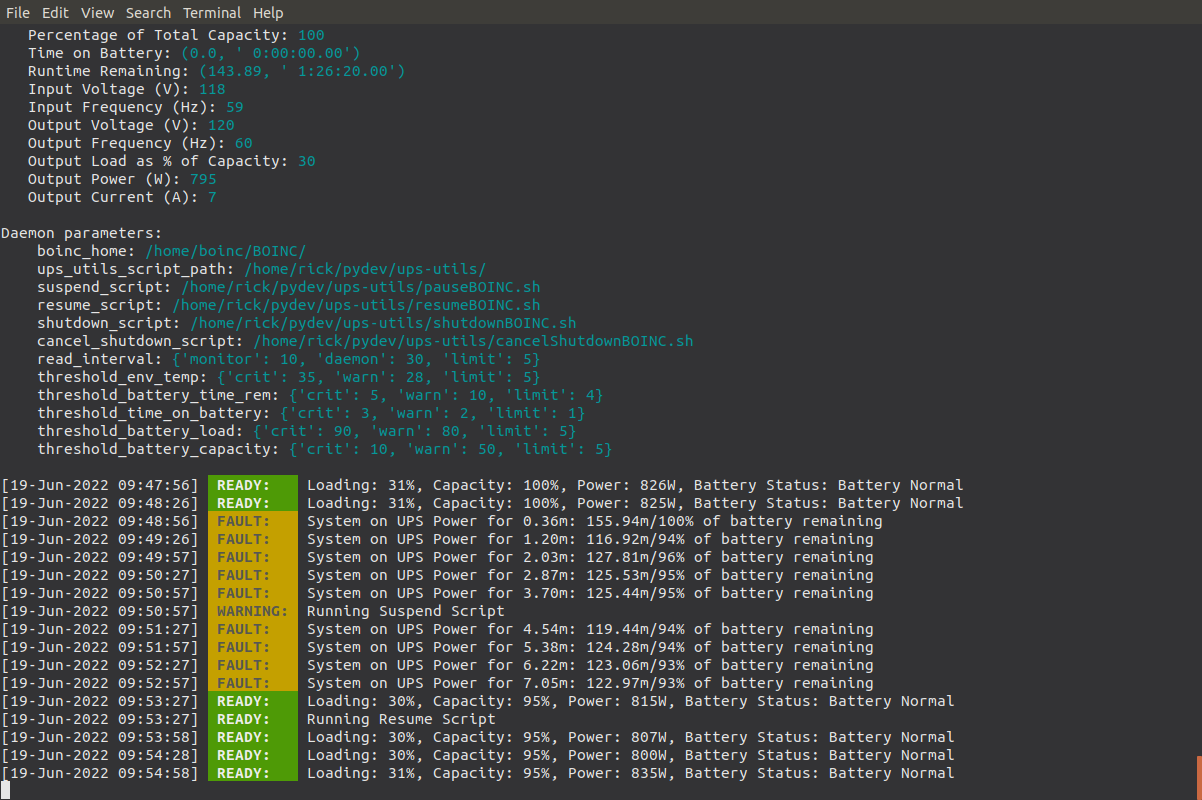
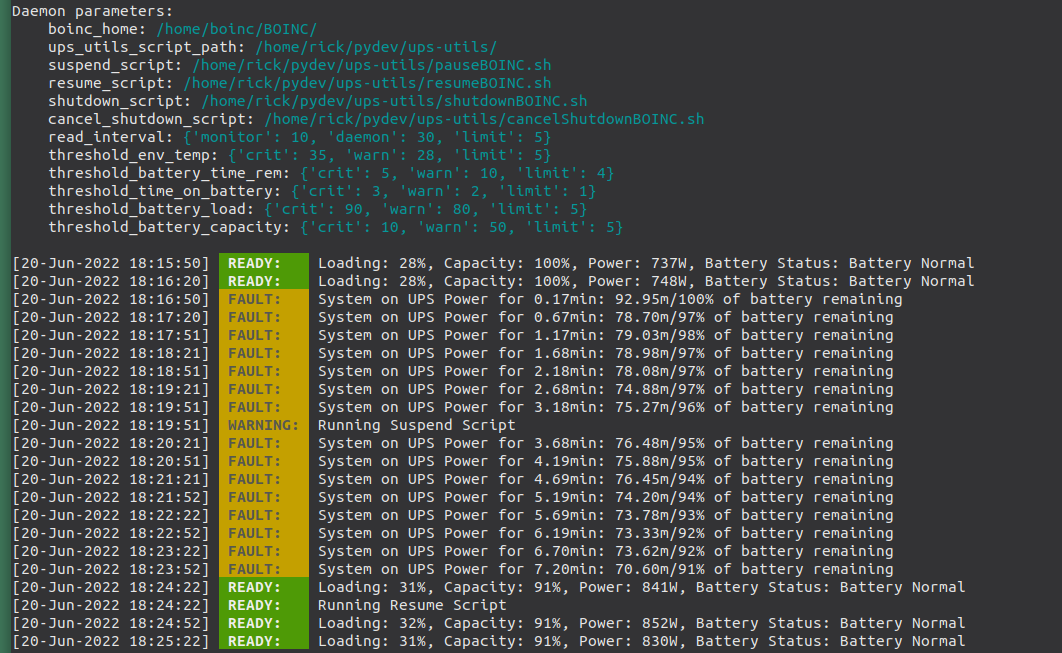
fixed issue with time on bat calc, formatting

Changed region(s): [[0.0, 0.0, 0.9322, 1.0], [0.9944, 0.9188, 1.0, 1.0], [0.5593, 0.245, 0.5904, 0.2757]]

diff --git a/UPSmodules/UPSmodule.py b/UPSmodules/UPSmodule.py
@@ -33,7 +33,6 @@ import re
 import shlex
 import shutil
 import time
-import datetime
 import json
 import subprocess
 import logging
@@ -120,8 +119,8 @@ class UpsItem:
         'mib_ups_env_temp': 'UPS Environment Temp (C)',
         'sep4':                '#',
         'mib_battery_capacity': 'Percentage of Total Capacity',
-        'mib_time_on_battery': 'Time on Battery',
-        'mib_battery_runtime_remain': 'Runtime Remaining',
+        'mib_time_on_battery': 'Time on Battery (min)',
+        'mib_battery_runtime_remain': 'Runtime Remaining (min)',
         'sep5':                '#',
         'mib_input_voltage': 'Input Voltage (V)',
         'mib_input_frequency': 'Input Frequency (Hz)',
@@ -141,7 +140,7 @@ class UpsItem:
     _short_list: Set[str] = {'ups_IP', 'display_name', 'mib_ups_model', 'responsive', 'daemon'}
     table_list: Set[str] = {'display_name', 'ups_IP', 'ups_type', 'mib_ups_model', 'ups_nmc_model', 'daemon'}
     mark_up_codes = env.UT_CONST.mark_up_codes
-    TXT_style: UpsEnum = UpsEnum('style', 'warn crit green bold normal')
+    TXT_style: UpsEnum = UpsEnum('style', 'warn crit green bold normal daemon')
 
     def __init__(self, json_details: dict):
         # UPS list from ups-config.json for monitor and ls utils.
@@ -352,12 +351,13 @@ class UpsDaemon:
         'ups_utils_script_path': os.path.expanduser('~/.local/bin/'),
         'read_interval': {'monitor': 10, 'daemon': 30, 'limit': 5},
         'threshold_env_temp': {'crit': 35, 'warn': 30, 'limit': 5},
-        'threshold_battery_time_rem': {'crit': 5, 'warn': 10, 'limit': 4},
-        'threshold_time_on_battery': {'crit': 5, 'warn': 3, 'limit': 1},
         'threshold_battery_load': {'crit': 90, 'warn': 80, 'limit': 5},
+        'threshold_time_on_battery': {'crit': 5, 'warn': 3, 'limit': 1},
+        'threshold_battery_time_rem': {'crit': 5, 'warn': 10, 'limit': 4},
         'threshold_battery_capacity': {'crit': 10, 'warn': 50, 'limit': 5}}
     daemon_param_dict: Dict[str, str] = {
         'mib_ups_env_temp': 'threshold_env_temp',
+        'mib_time_on_battery': 'threshold_time_on_battery',
         'mib_battery_runtime_remain': 'threshold_battery_time_rem',
         'mib_output_load': 'threshold_battery_load',
         'mib_battery_capacity': 'threshold_battery_capacity'}
@@ -395,30 +395,27 @@ class UpsDaemon:
         :return:
         """
         if command_name not in self.daemon_param_dict:
-            return UpsItem.TXT_style.normal if gui_text_style else 'none'
-        if not value:
+            return UpsItem.TXT_style.bold if gui_text_style else 'none'
+        if value in {None, 'none', '', '---'}:
             return UpsItem.TXT_style.normal if gui_text_style else 'none'
         if isinstance(value, str):
             if value.isnumeric():
                 value = int(value)
             else:
-                return UpsItem.TXT_style.normal if gui_text_style else 'none'
+                return UpsItem.TXT_style.bold if gui_text_style else 'none'
 
         limits = self.daemon_params[self.daemon_param_dict[command_name]]
-        if command_name in ['mib_ups_env_temp', 'mib_output_load']:
-            # if value >= limits['limit']: return 'limit'
+        if command_name in {'mib_ups_env_temp', 'mib_output_load', 'mib_time_on_battery'}:
             if value >= limits['crit']:
                 return UpsItem.TXT_style.crit if gui_text_style else 'crit'
             elif value >= limits['warn']:
                 return UpsItem.TXT_style.warn if gui_text_style else 'warn'
         else:
-            if command_name == 'mib_battery_runtime_remain': value = value[0]
-            # if value <= limits['limit']: return 'limit'
             if value <= limits['crit']:
                 return UpsItem.TXT_style.crit if gui_text_style else 'crit'
             elif value <= limits['warn']:
                 return UpsItem.TXT_style.warn if gui_text_style else 'warn'
-        return UpsItem.TXT_style.normal if gui_text_style else 'none'
+        return UpsItem.TXT_style.bold if gui_text_style else 'none'
 
     def read_daemon_config(self) -> bool:
         """ Read the daemon config file.
@@ -1161,7 +1158,7 @@ class UpsComm:
         for cmd in UpsComm.all_mib_cmd_names[cmd_group]:
             if cmd in ups.skip_list: continue
             ups.prm[cmd] = self.send_snmp_command(cmd, ups, display=display)
-            if not ups.prm[cmd]:
+            if ups.prm[cmd] in {None, '', 'none'}:
                 ups.skip_list.append(cmd)
                 ups.prm[cmd] = '---'
                 env.UT_CONST.process_message('UPS {} invalid response: Skipping: {}'.format(
@@ -1185,7 +1182,7 @@ class UpsComm:
         return True
 
     def send_snmp_command(self, command_name: str, ups: UpsItem,
-                          display: bool = False) -> Union[str, int, List[Union[float, str]], float, None]:
+                          display: bool = False) -> Union[str, int, float, None]:
         """ Read the specified mib commands results for specified UPS or active UPS if not specified.
 
         :param command_name:  A command to be read from the target UPS
@@ -1209,12 +1206,12 @@ class UpsComm:
                          command_name, cmd_mib, ups.prm.display_name, ups.ups_ip())
             return None
 
-        value = ''
-        value_minute = -1
-        value_str = 'UNK'
+        value: Union[str, int, float, None] = None
+
+        LOGGER.debug('### command_name: %s', command_name)
         for line in snmp_output:
             if not line: continue
-            LOGGER.debug('line: %s', line)
+            LOGGER.debug('    Raw data: %s', line)
             if re.match(env.UT_CONST.PATTERNS['SNMP_VALUE'], line):
                 value = line.split(':', 1)[1]
                 value = re.sub(r'\"', '', value).strip()
@@ -1242,20 +1239,17 @@ class UpsComm:
                 else:
                     # Measured in minutes.
                     value = int(value) * 60
-                value_str = str(datetime.timedelta(seconds=int(value)))
-                value_minute = round(float(value) / 60.0, 2)
-                value = [value_minute, value_str]
+                value = round(float(value) / 60.0, 2)
             else:
-                # Process time for apc
+                # Process time for APC, measured in hundredths of seconds
                 value_items = re.sub(r'\(', '', value).split(')')
-                if len(value_items) >= 2:
-                    value_minute, value_str = value_items
-                value = (round(int(value_minute) / 60 / 60, 2), value_str)
+                value = round(float(value_items[0]) / 100 / 60, 2) if len(value_items) >= 2 else None
         if display:
             if command_name == 'mib_output_current' and ups.prm['ups_type'] == UpsComm.MIB_nmc.eaton_pw:
                 print('{}: {} - raw, uncorrected value.'.format(snmp_mib_commands[command_name]['name'], value))
             else:
                 print('{}: {}'.format(snmp_mib_commands[command_name]['name'], value))
+        LOGGER.debug('    Value: %s', value)
         return value
 
     @staticmethod

diff --git a/UPSmodules/UPSgui.py b/UPSmodules/UPSgui.py
@@ -120,8 +120,8 @@ class GuiComp:
                 data_value = self.data_dict[uuid][item_name]
             except KeyError:
                 data_value = None
-            if data_value in ['-1', None, '', 'No data']:
-                data_value = '---'
+            if data_value in {'-1', None, '', 'No data', 'None'}:
+                data_value = 'Unresponsive' if item_name in {'mib_ups_name', 'mib_system_status'} else '---'
             data_value = str(data_value)[:self.max_width]
             item_dict['label'].set_text(data_value)
             self.gc[uuid][item_name]['data'] = data_value
@@ -146,6 +146,7 @@ class GuiProps:
                           'green':     '#8EC3A7',
                           'green_dk':  '#6A907C',
                           'teal':      '#218C8D',
+                          'cyan':      '#008B8B',
                           'olive':     '#6C9040',
                           'red':       '#B73743',
                           'orange':    '#E86850',
@@ -178,7 +179,7 @@ class GuiProps:
         return GuiProps._colors[value]
 
     @staticmethod
-    def color_name_to_rgba(value: str) -> Tuple[float, ...]:
+    def color_name_to_rgba(value: str) -> Tuple[Union[float, int], ...]:
         """
         Convert the given color name to a color tuple.  The given color string mus exist in the project
         color list.
@@ -191,7 +192,7 @@ class GuiProps:
         return GuiProps.hex_to_rgba(GuiProps._colors[value])
 
     @staticmethod
-    def hex_to_rgba(value: str) -> Tuple[float, ...]:
+    def hex_to_rgba(value: str) -> Tuple[Union[float, int], ...]:
         """
         Return rgba tuple for give hex color name.
 

diff --git a/UPSmodules/env.py b/UPSmodules/env.py
@@ -119,6 +119,7 @@ class UtConst:
                                      'nvidia':    '\033[1;30;42m',
                                      'warn':      '\033[1;30;43m',
                                      'other':     '\033[1;37;44m',
+                                     'daemon':    '\033[1;37;44m',
                                      'label':     '\033[1;37;46m',
                                      'reset':     '\033[0;0;0m'}
     # Private items

diff --git a/docs/USER_GUIDE.md b/docs/USER_GUIDE.md
@@ -160,10 +160,10 @@ cd ~/.local/share/rickslab-ups-utils/config
 chmod 600 ups-utils.ini ups-config.json
 ```
 
-To assure the use of the utilities only with secure configuration files, all utilities should
+To assure the use of the utilities only with secure configuration files, all utilities will
 exit with an error if not properly secured.
 
-The ups-utils rely on the command *snmpget* which is part of the snmp package that must
+The **ups-utils** rely on the command *snmpget* which is part of the snmp package that must
 be installed:
 
 ```shell
@@ -175,7 +175,7 @@ sudo apt install snmp
 After getting your system setup to support **rickslab-ups-utils**, it is best to verify functionality by
 listing your UPS details with the `ups-ls` command.  The utility will read the `ups-config.json` to get
 a list of configured UPSs. The utility will also verify accessibility of the listed UPSs. Here is an
-example of output for a single UPS using `ups-ls` with no command line arguments:
+example of output for a single UPS using `ups-ls --no_markup`:
 
 ```
 UPS Name: UPS1-PDX

diff --git a/README.md b/README.md
@@ -90,6 +90,11 @@ force their display.  The logger is enabled with the *--debug* option.
 
 * Updates to the User Guide.
 * Cleaned up implementation of GuiComp object.
+* Fixed an error in the calculation of time on battery and battery remaining
+for APC. Now just store time in minutes in data structure and drop the string version.
+* Include time on battery in color coding logic.
+* More code optimizations.
+* Improved LOGGER.debug messages.
 
 ## Known Issues
 
